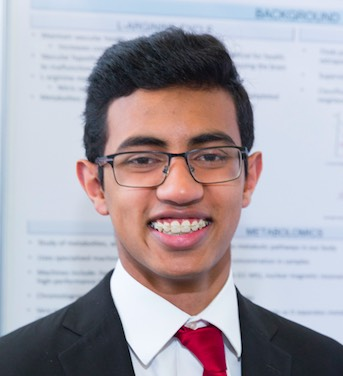
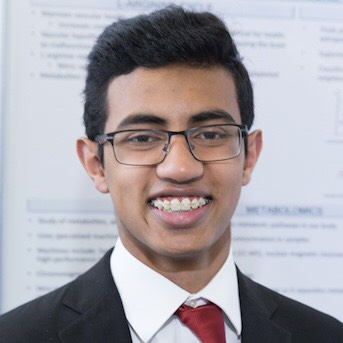
Adding member picture and making images responsive

diff --git a/about.html b/about.html
@@ -167,7 +167,7 @@
 
 		<div class = "col-md-3">
 			<div class = "card">
-				<img src = "img/team3.png" class = "card-img-top">
+				<img src = "img/calgary/jerry.jpg" class = "card-img-top">
 				<div class = "card-body">
 					<h4 class = "card-title"> Jerry Li </h4>
 					<p class = "card-text">Problem Writer.<br/>Western Canada High School - Class of 2021.</p>
@@ -181,7 +181,6 @@
 <hr class = "my-4">
 
 <!-- Edmonton section -->
-<!--- Calgary section -->
 <div class = "container-fluid padding">
 	<div class = "row welcome text-center">
 		<div class = "col-12">
@@ -262,13 +261,11 @@
 			</div>
 		</div>
 		<div class = "row padding">
-			<div class = "col-lg-12">
-				<img src = "img/UofC.jpg" class = "sponsor-logo"/>
+			<div class = "col-lg-6">
+				<img src = "img/UofC.jpg" class = "sponsor-logo .img-fluid"/>
 			</div>
-		</div>
-		<div class = 'row padding'>
-			<div class = "col-lg-12">
-				<img src = "img/UofA .jpg" class = "sponsor-logo"/>
+			<div class = "col-lg-6">
+				<img src = "img/UofA .jpg" class = "sponsor-logo .img-fluid"/>
 			</div>
 		</div>
 		<div class = "row padding">
